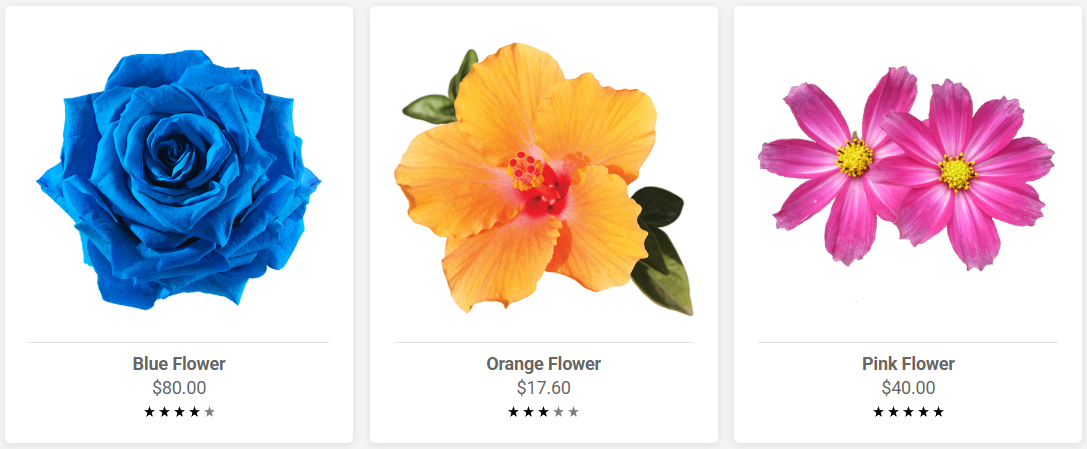
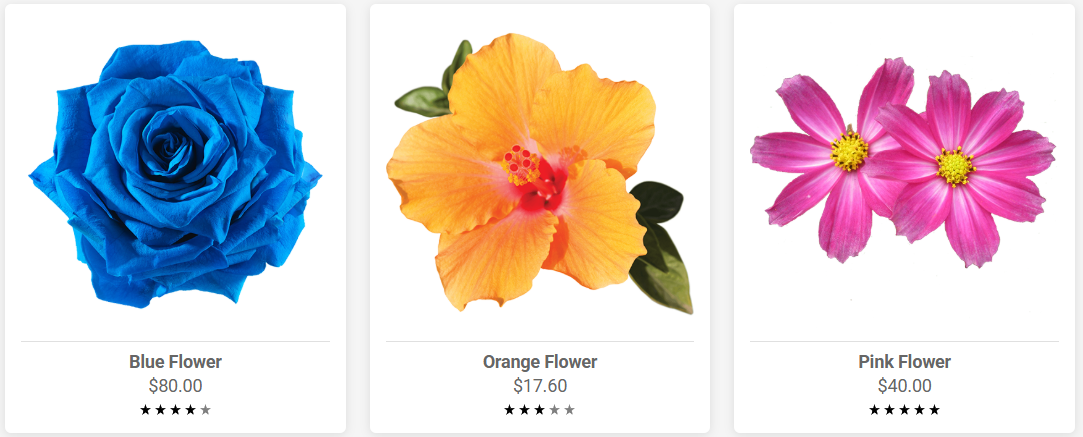
Adding more padding between cards

diff --git a/style/main.scss b/style/main.scss
@@ -8,7 +8,7 @@ body {
 }
 
 main {
-    padding: 2rem;
+    padding: 3rem;
 }
 
 h1 {
@@ -33,7 +33,7 @@ h1 {
     background-color: white;
     border-radius: $radius;
     box-shadow: $shadow;
-    padding: 1.5rem;
+    padding: 1rem;
     display: flex;
     flex-direction: column;
     align-items: center;

diff --git a/style/main.css b/style/main.css
@@ -6,7 +6,7 @@ body {
 }
 
 main {
-  padding: 2rem;
+  padding: 3rem;
 }
 
 h1 {
@@ -29,7 +29,7 @@ h1 {
   background-color: white;
   border-radius: 6px;
   box-shadow: 0 2px 10px rgba(0, 0, 0, 0.1);
-  padding: 1.5rem;
+  padding: 1rem;
   display: flex;
   flex-direction: column;
   align-items: center;
